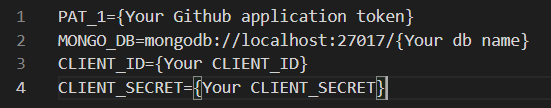
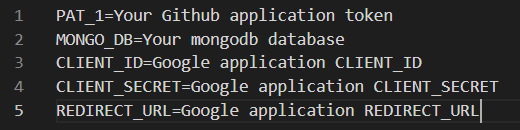
docs/csh/develop/readme: modify link to refactoring directory structure

diff --git a/README.md b/README.md
@@ -159,7 +159,7 @@ for example,
 #### Common Options:
 
 - `size` - Card-view's size in your readme (default size is 350 pixel)
-- `theme` - name of the themes, choose [available themes](./github-readme-health/themes/chartTheme.js)
+- `theme` - name of the themes, choose [available themes](./github-readme-developer-health/themes/chartTheme.js)
 - cache_seconds - set the cache header manually _(min: 1800, max: 86400)_
 
 _As a note, have a default cache of 4 hours (14400 seconds)_
@@ -206,7 +206,7 @@ for example,
 
 #### Common Options:
 
-- `theme` - name of the themes, choose [available themes](./github-readme-health/themes/circleThemes.js)
+- `theme` - name of the themes, choose [available themes](./github-readme-developer-health/themes/circleThemes.js)
 - `size` - size proportional to the default size (default is 2)
 - cache_seconds - set the cache header manually _(min: 1800, max: 86400)_
 
@@ -250,8 +250,8 @@ for example,
 
 #### Common Options:
 
-- `theme` - name of the themes, choose [available themes](./github-readme-health/themes/index.js)
-- `badge_theme` - theme name of animal badge, choose [available themes](./github-readme-health/themes/circleThemes.js)
+- `theme` - name of the themes, choose [available themes](./github-readme-developer-health/themes/index.js)
+- `badge_theme` - theme name of animal badge, choose [available themes](./github-readme-developer-health/themes/circleThemes.js)
 - `hide` - Items you want to hide. for example, ```&hide=animal,sleep,...```
 - hide_badge - boolean type param for showing animal badge, _true or false_
 - hide_border - boolean type param for showing card view border, _true or false_
@@ -296,7 +296,7 @@ for example,
 
 #### Common Options:
 
-- `theme` - name of the themes, choose [available themes](./github-readme-health/themes/calendarTheme.js)
+- `theme` - name of the themes, choose [available themes](./github-readme-developer-health/themes/calendarTheme.js)
 - `size` - size proportional to the default size (default is 5)
 - `outline` -  boolean type param for showing day border, _true or false_
 - animation - boolean type param for showing hover and fade in, _true or false_
@@ -313,11 +313,12 @@ for example,
 
 1. Clone our project
 2. [make Google Application and add CLIENT_ID & CLIENT_SECRET in .env file](./Google Fitness REST API.md)
-3. [Create github application token](https://docs.github.com/en/github/authenticating-to-github/creating-a-personal-access-token), then add token as a value and 'PAT_1' as a key in .env file.
-4. [Install mongoDB](https://www.mongodb.com/try/download/community)
-5. Add 'MONGO_DB' as a key and host address of mongodb as a value in .env file.
-6.  install packages ```npm install```
-7. run application ```npm start``` or ```pm2 start ./bin/www```
+3. add redirect_url that is written in Google application.
+4. [Create github application token](https://docs.github.com/en/github/authenticating-to-github/creating-a-personal-access-token), then add token as a value and 'PAT_1' as a key in .env file.
+5. [Install mongoDB](https://www.mongodb.com/try/download/community)
+6. Add 'MONGO_DB' as a key and host address of mongodb as a value in .env file.
+7. install packages ```npm install```
+8. run application ```npm start``` or ```pm2 start ./bin/www```
 
 *As a note, .env file example*
 
@@ -375,7 +376,7 @@ We Thanks to [anuraghazra](https://github.com/anuraghazra/github-readme-stats) b
 
 # 9. Supported
 
-### __*This Project is supported by*__
+### __*This Project is supported by*__ :blue_heart::purple_heart::heart::yellow_heart::green_heart:
 
 
 
